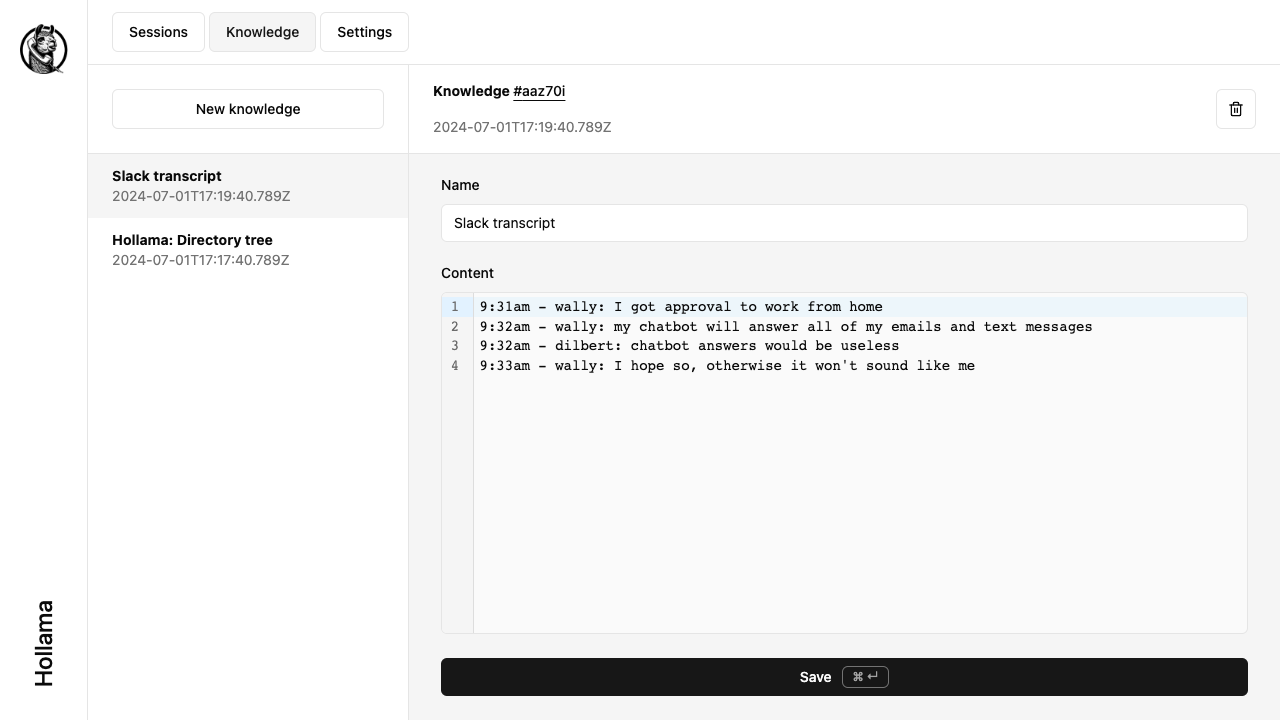
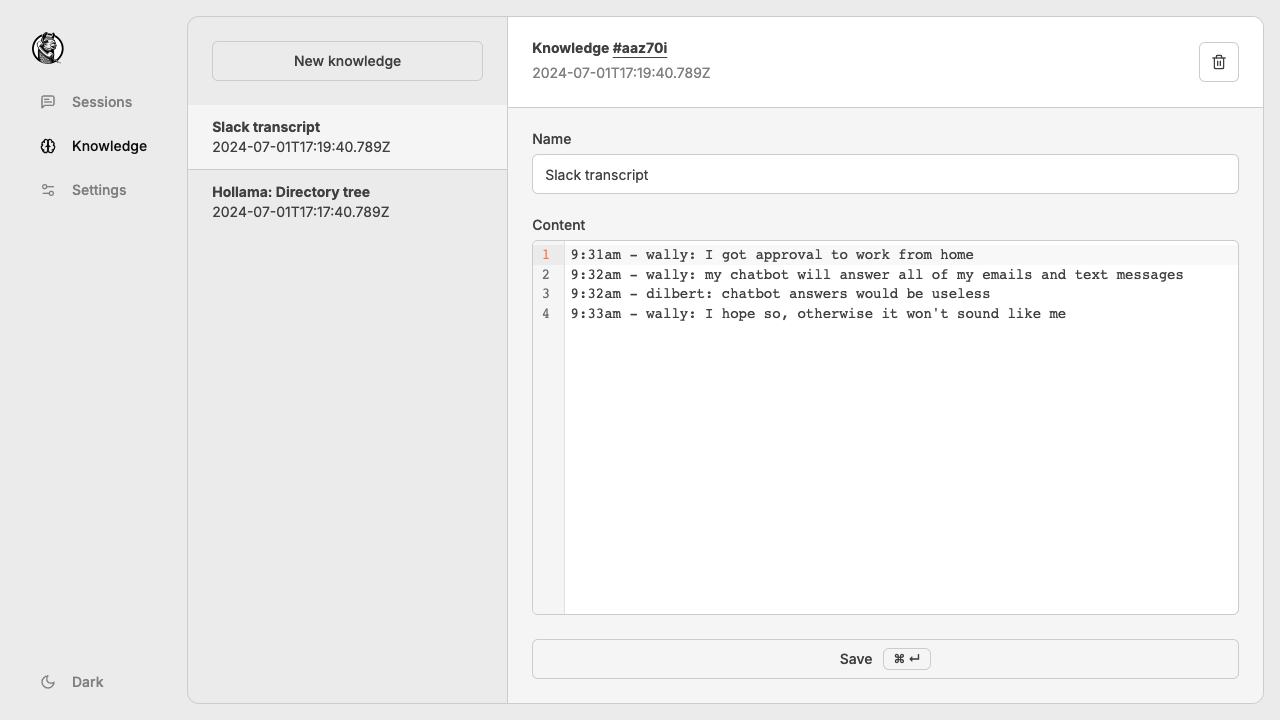
fix tests

diff --git a/tests/session.test.ts b/tests/session.test.ts
@@ -124,10 +124,8 @@ test.describe('Session', () => {
 		expect(await page.getByTestId('session-item').last().textContent()).toContain(MOCK_API_TAGS_RESPONSE.models[0].name);
 
 		// Check the current session is highlighted in the sidebar
-		await expect(page.getByTestId('session-item').first()).not.toHaveClass(/hover:bg-accent/);
-		await expect(page.getByTestId('session-item').first()).toHaveClass(/ bg-accent/);
-		await expect(page.getByTestId('session-item').last()).not.toHaveClass(/ bg-accent/);
-		await expect(page.getByTestId('session-item').last()).toHaveClass(/hover:bg-accent/);
+		await expect(page.getByTestId('session-item').first()).toHaveClass(/ section-list-item--active/);
+		await expect(page.getByTestId('session-item').last()).not.toHaveClass(/ section-list-item--active/);
 	});
 
 	test('deletes a session from the sidebar', async ({ page }) => {

diff --git a/src/routes/sessions/[id]/+page.svelte b/src/routes/sessions/[id]/+page.svelte
@@ -182,7 +182,7 @@
 			<PaneResizer class="border-t border-y-2 border-shade-3"></PaneResizer>
 
 			<Pane defaultSize={isNewSession ? 50 : 25} minSize={10}>
-				<div class="grid grid-flow-col h-full w-full overflow-y-auto p-8 bg-shade-1">
+				<div class="grid grid-flow-col h-full w-full overflow-y-auto p-8">
 					<Fieldset>
 						{#if isNewSession}
 							<div class="grid grid-cols-[1fr,1fr] items-end gap-x-6">
@@ -236,11 +236,11 @@
 
 <style lang="scss">
 	.session {
-		@apply flex h-full w-full flex-col overflow-y-auto bg-shade-0;
+		@apply flex h-full w-full flex-col overflow-y-auto;
 	}
 
 	.article-list {
-		@apply flex h-full flex-col overflow-y-auto p-4 bg-shade-1;
+		@apply flex h-full flex-col overflow-y-auto p-4;
 		@apply lg:p-8;
 	}
 </style>

diff --git a/src/lib/components/SectionListItem.svelte b/src/lib/components/SectionListItem.svelte
@@ -11,7 +11,7 @@
 </script>
 
 <a
-	class="section-list-item {$page.url.pathname.includes(id) ? 'bg-shade-1' : 'hover:bg-shade-1'}"
+	class="section-list-item {$page.url.pathname.includes(id) ? 'section-list-item--active' : ''}"
 	data-testid={isSession ? 'session-item' : 'knowledge-item'}
 	aria-label={isSession ? `Session: ${id}` : `Knowledge: ${id}`}
 	href={`/${sitemap}/${id}`}
@@ -26,7 +26,11 @@
 
 <style lang="scss">
 	.section-list-item {
-		@apply flex flex-col px-6 py-3;
+		@apply flex flex-col px-6 py-3 hover:bg-shade-1 border-b last:border-b-0;
+	}
+
+	.section-list-item--active {
+		@apply bg-shade-1;
 	}
 
 	.section-list-item__title {

diff --git a/src/lib/components/Header.svelte b/src/lib/components/Header.svelte
@@ -10,7 +10,7 @@
 
 <style>
 	.header {
-		@apply flex items-center justify-between border-b p-4 bg-shade-1;
+		@apply flex items-center justify-between border-b p-4 bg-shade-0;
 		@apply lg:p-6;
 	}
 </style>

diff --git a/src/routes/settings/+page.svelte b/src/routes/settings/+page.svelte
@@ -170,7 +170,7 @@
 
 	.settings {
 		@include base-section;
-		@apply flex border-spacing-1 flex-col p-8;
+		@apply flex border-spacing-1 flex-col p-8 bg-shade-1;
 	}
 
 	.settings__container {

diff --git a/src/lib/components/Section.svelte b/src/lib/components/Section.svelte
@@ -35,7 +35,7 @@
 	}
 
 	.section__content {
-		@apply flex h-full flex-col overflow-y-auto;
+		@apply flex h-full flex-col overflow-y-auto bg-shade-1;
 	}
 
 	.section--index {
